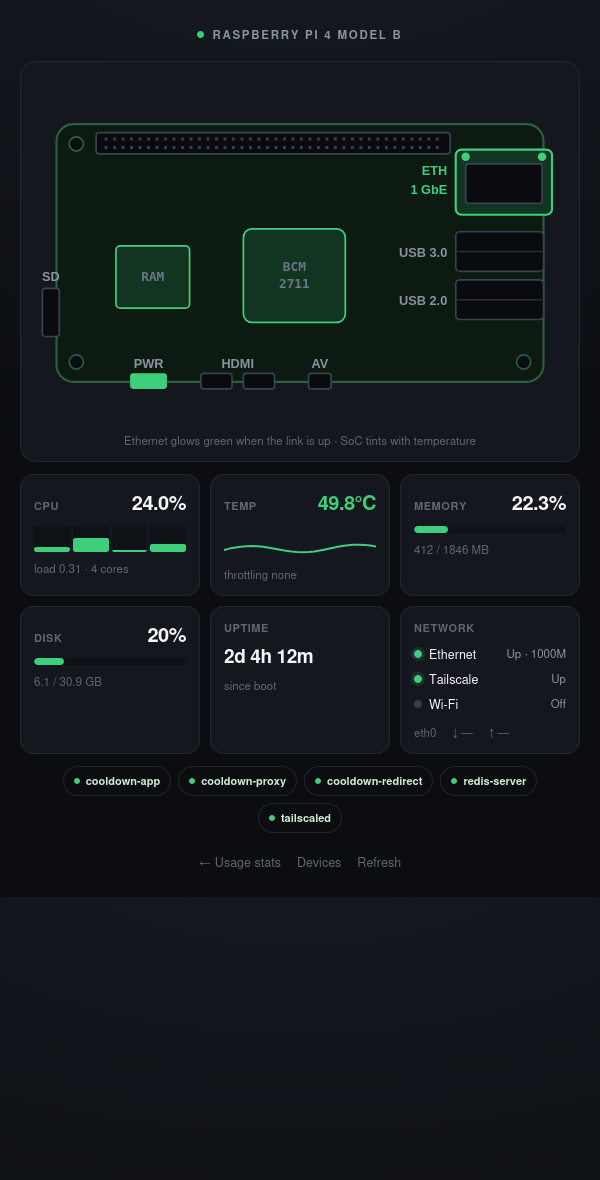
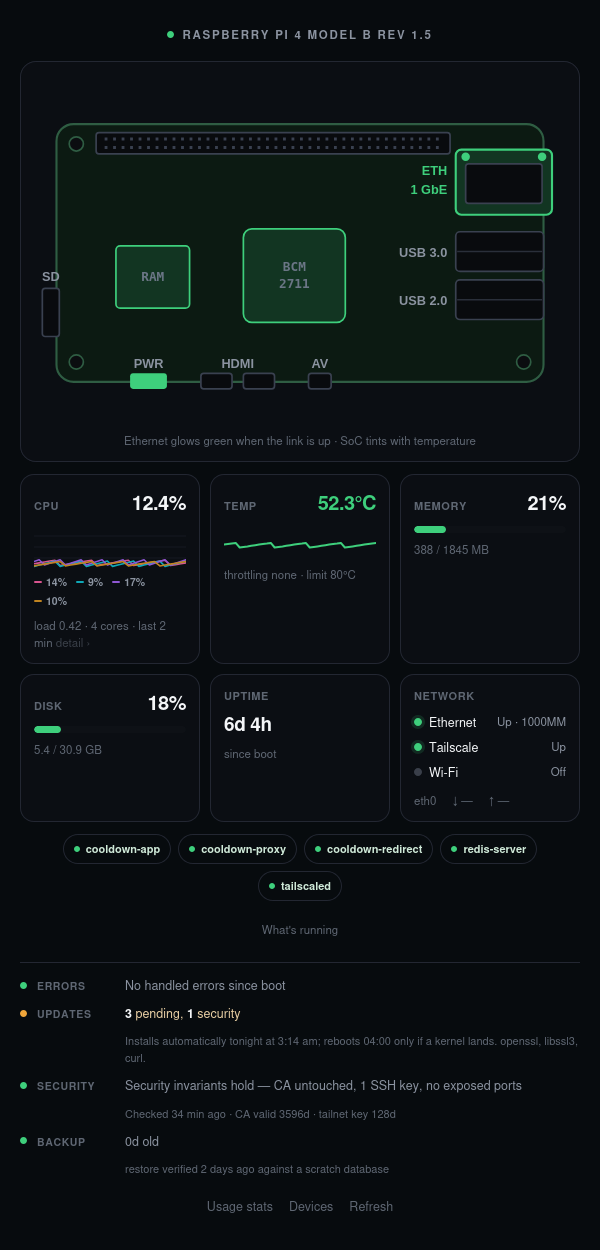
Refresh health.png: it was eleven days stale
docs/screenshots/health.png dated 2026-07-31 and showed the CPU tile as a bar
chart, with no status footer. The page has since gained a per-core line chart
with a /cpu detail link, and the errors/updates/security/backup status grid.

Captured from tools/mock-screenshots.py, so every value in it is invented --
verified no real address, hostname or fingerprint appears in the file.

Three things had to be worked out to capture it at all, recorded because the
next person will hit them:

  - Headless Firefox silently produces no file without --profile, and needs BOTH
    window dimensions; width alone is ignored.
  - The live page polls every few seconds forever, so headless never reaches
    network-idle and the screenshot never fires. Shooting a saved copy of the
    rendered HTML works.
  - The packet-feed canvas draws hex across the content when frozen into a still.
    prefers-reduced-motion stops the animation but not the drawing, so the saved
    copy gets #bp-bg{display:none} injected. app.py is untouched: the feed is a
    feature in a live browser and only a problem in a photograph.

Only health.png is replaced. devices.png and the gate shots are not stale, and
the devices mock renders an unformatted last_seen that would read as a bug --
better an accurate old screenshot than a new one with an artifact in it.

diff --git a/tools/mock-screenshots.py b/tools/mock-screenshots.py
@@ -63,11 +63,13 @@ HEALTH = {
               "checked_human": "34 min ago", "ca_days": 3596, "ts_days": 128,
               "backup_age": 0, "backup_restores": 1, "full_ago": "2 days ago",
               "mode": "full", "checked_ago": 2040},
-    "procs": [{"name": "mitmdump", "mem_mb": 96, "cpu": 3.2},
-              {"name": "tailscaled", "mem_mb": 71, "cpu": 3.5},
-              {"name": "python", "mem_mb": 52, "cpu": 0.4},
-              {"name": "systemd-journal", "mem_mb": 26, "cpu": 0.3},
-              {"name": "redis-server", "mem_mb": 12, "cpu": 0.2}],
+    # name/mb/pct, copied from _top_processes(). Written as mem_mb/cpu first, which
+    # rendered an empty table -- the third mock shape guessed wrong rather than read.
+    "procs": [{"name": "mitmdump", "mb": 96, "pct": 3.2},
+              {"name": "tailscaled", "mb": 71, "pct": 3.5},
+              {"name": "python", "mb": 52, "pct": 0.4},
+              {"name": "systemd-journal", "mb": 26, "pct": 0.3},
+              {"name": "redis-server", "mb": 12, "pct": 0.2}],
     "proc_total": 168,
     # Field names taken from _listening_ports(), not guessed: port/scope/rank/what.
     # An earlier version used "addr" and the panel silently rendered nothing.
